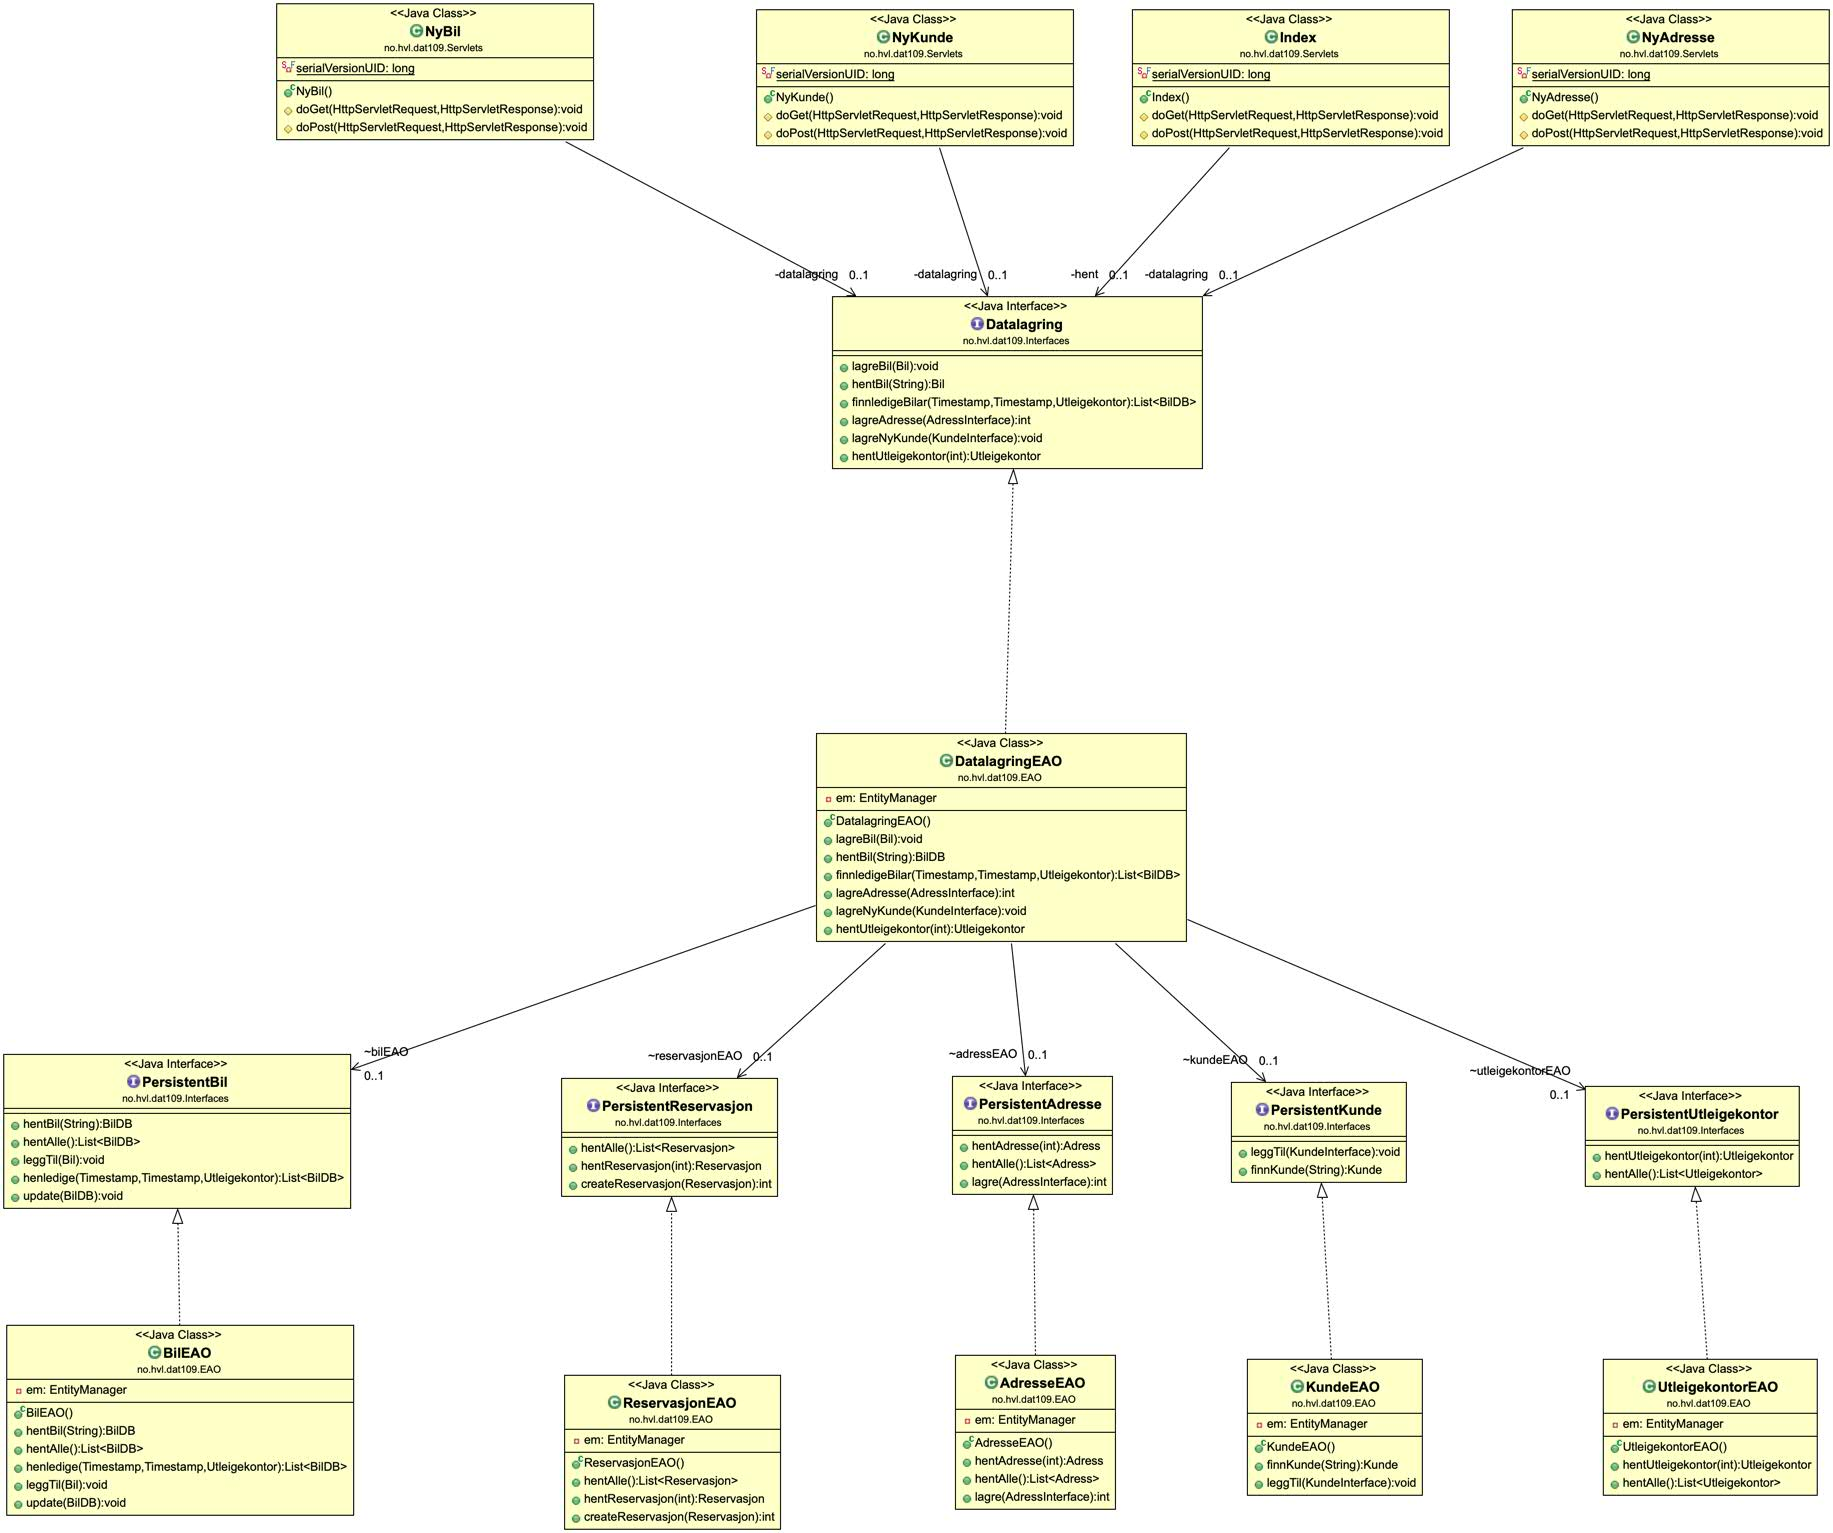
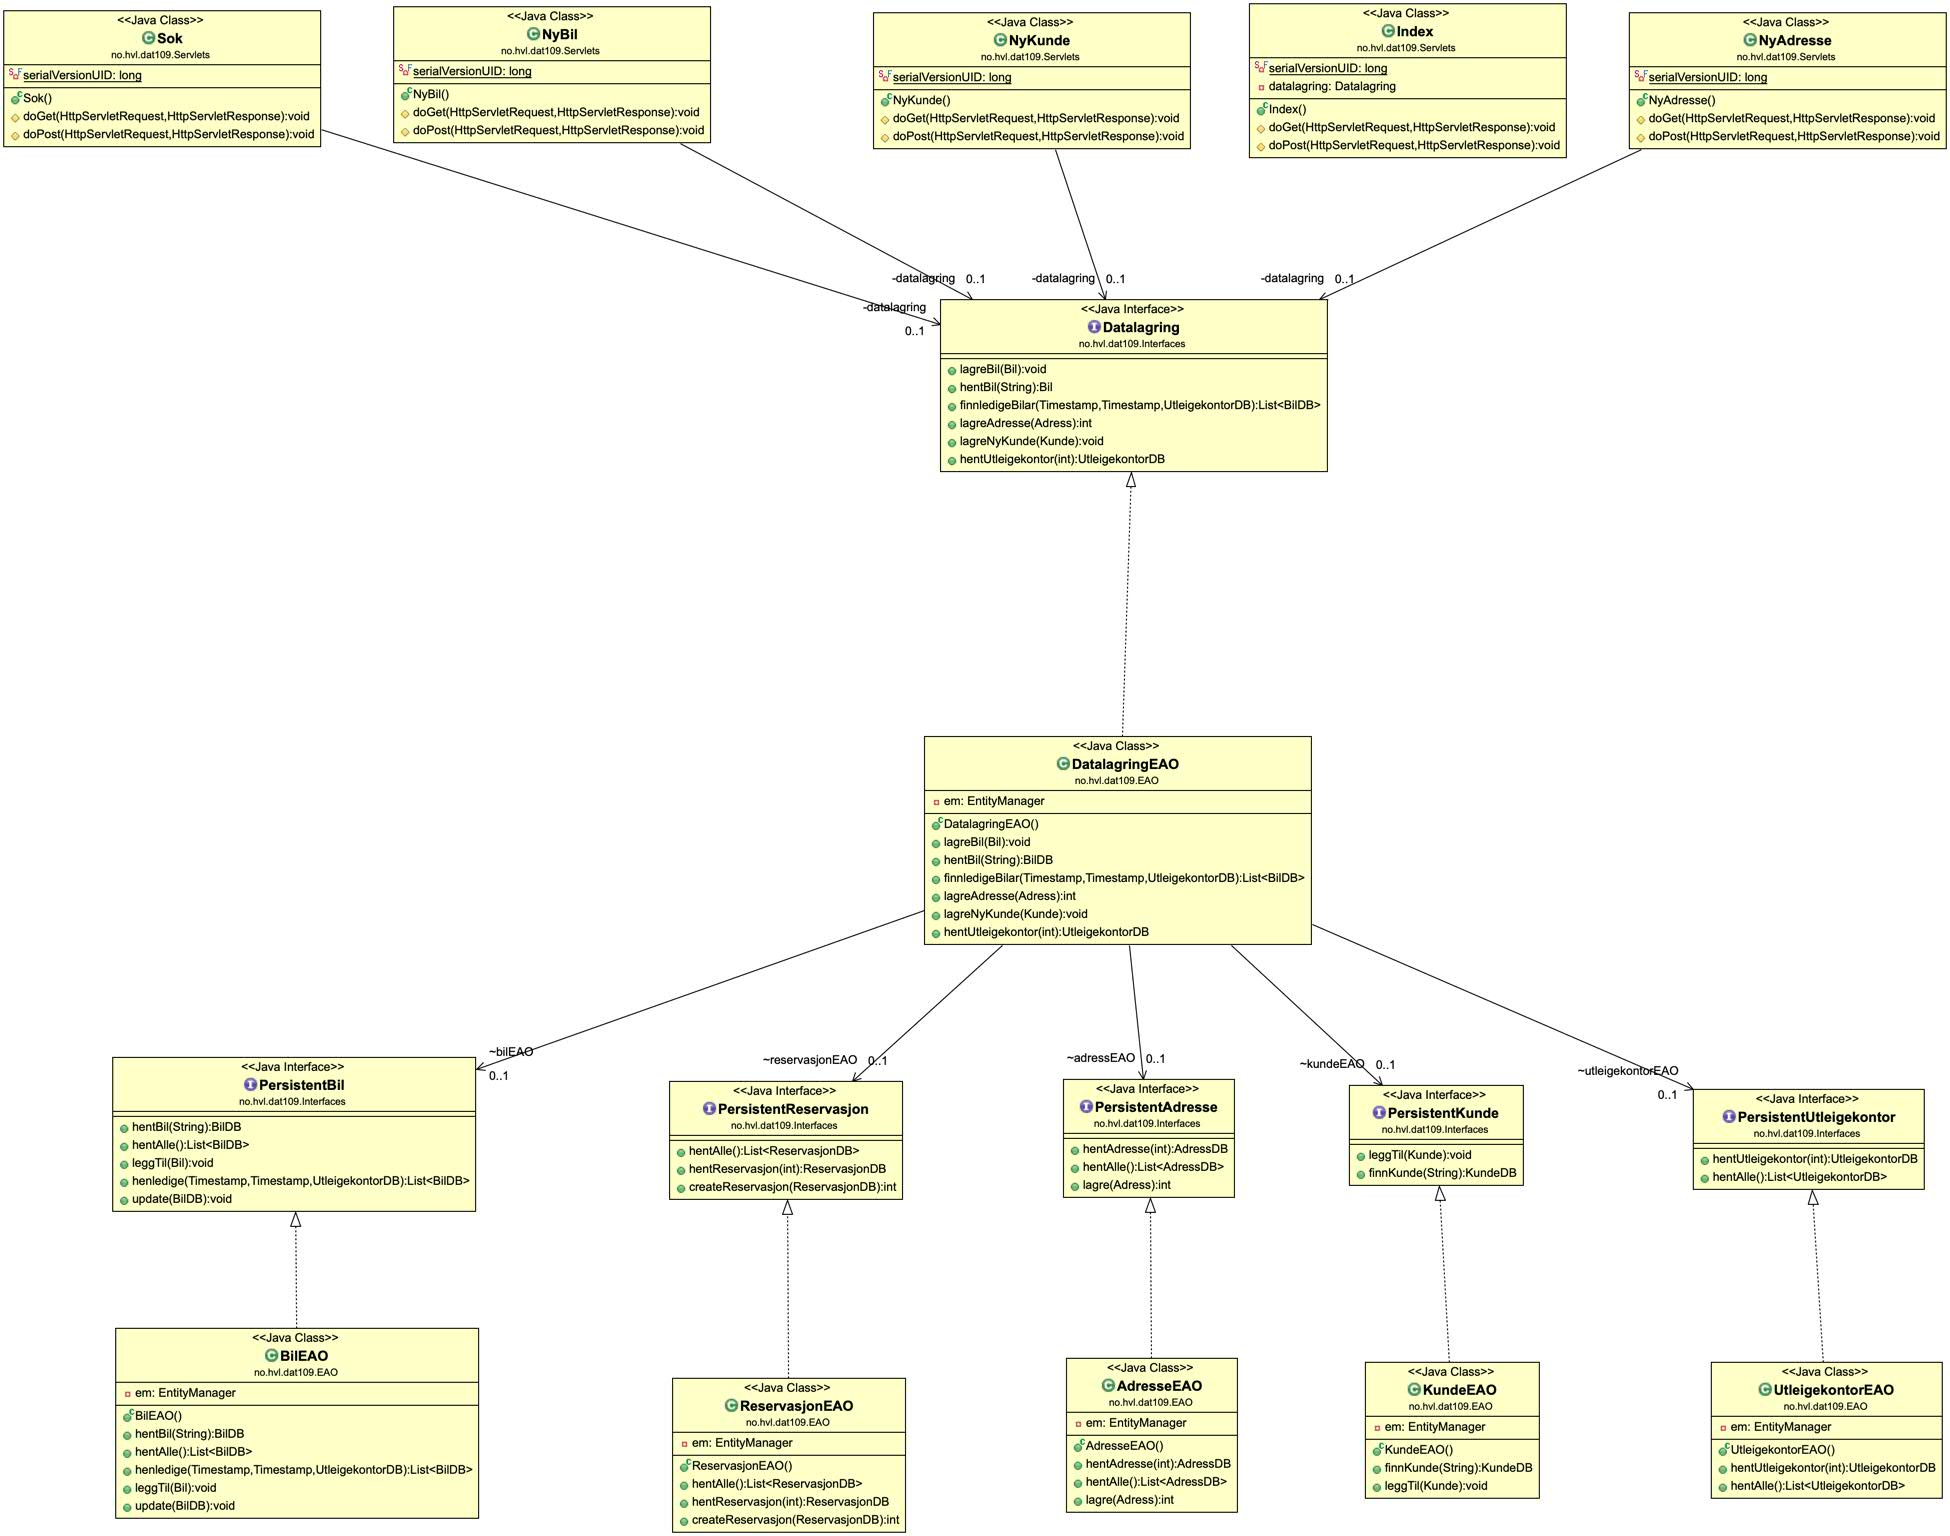
endra classdiagram

diff --git a/Dat109Oblig2/src/no/hvl/dat109/Servlets/Sok.java b/Dat109Oblig2/src/no/hvl/dat109/Servlets/Sok.java
@@ -29,7 +29,7 @@ public class Sok extends HttpServlet {
 	}
 
 	@EJB
-	private Datalagring hent;
+	private Datalagring datalagring;
 
 	/**
 	 * @see HttpServlet#doGet(HttpServletRequest request, HttpServletResponse
@@ -56,7 +56,7 @@ public class Sok extends HttpServlet {
 		Timestamp fraTimestamp = new Timestamp(fra.getTime());
 		Timestamp tilTimestamp = new Timestamp(til.getTime());
 
-		hent.finnledigeBilar(fraTimestamp, tilTimestamp, hent.hentUtleigekontor(fraLokasjon)).stream()
+		datalagring.finnledigeBilar(fraTimestamp, tilTimestamp, datalagring.hentUtleigekontor(fraLokasjon)).stream()
 				.filter(b -> b.getBiltype().getTypeid().equals(biltype)).forEach(System.out::println);
 
 		System.out.println();

diff --git a/Dat109Oblig2/src/no/hvl/dat109/Servlets/Index.java b/Dat109Oblig2/src/no/hvl/dat109/Servlets/Index.java
@@ -24,7 +24,7 @@ public class Index extends HttpServlet {
 //	@EJB
 //	private PersistentUtleigekontor utleigekontorEAO;
 	@EJB
-	private Datalagring hent;
+	private Datalagring datalagring;
 
 	public Index() {
 		super();
@@ -44,7 +44,7 @@ public class Index extends HttpServlet {
 		long time = date.getTime();
 
 		Timestamp timestamp = new Timestamp(time);
-		hent.finnledigeBilar(timestamp, timestamp, hent.hentUtleigekontor(1)).forEach(System.out::println);
+		datalagring.finnledigeBilar(timestamp, timestamp, datalagring.hentUtleigekontor(1)).forEach(System.out::println);
 		
 
 		System.out.println();
